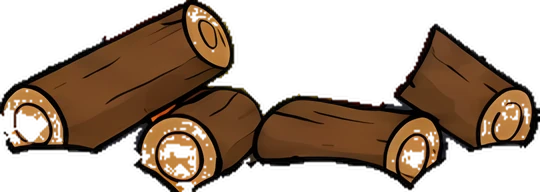
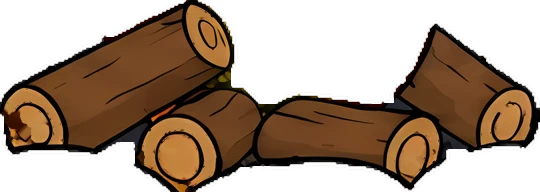
Logs: fill the see-through spots in the log ends
The original cut-out had knocked holes in the light wood of the log
ends; they're filled with the surrounding wood colour.

Claude-Session: https://claude.ai/code/session_01LEzX9WUx8sWcSwwRyLeaEz

diff --git a/docs/HANDOFF.md b/docs/HANDOFF.md
@@ -61,7 +61,7 @@ Updated Sep 28 2026 (beta audit merged). Read this whole file before changing an
 | 36 | Birds in the sky; skunk dropped | Built on `wip/pending-approval`: every 3–8 minutes by day a flock of 2–5 classic black "m" birds flaps (and now and then glides) across the sky; none at night or while storm clouds gather. A `birds` button in the Playground sends a flock. The skunk is dropped. **Approved Sep 29, merged to `main`.** |
 | 37 | Storm at 21:00 UTC; the scene follows each player's own clock | Built on `wip/pending-approval`: the storm moves from 03:00 UTC (8 PM MST) to 21:00 UTC (5 PM ET, 10 PM UK, 2 PM MST), when the US and Europe are both awake. `ROLL_TIME_OF_DAY=75600` in the deploy settings (no contract code change; the keeper reads the time from the contract). The site shows the player's own time and the storm on their clock ("storm in 2:11:46", "storm at 5:00 PM"); sun, moon and stars follow their clock; the forecast clouds gather over the last 3 hours before the storm. Wording is now daily: "Day 3", "3 days survived", "the next storm". Docs and the launch-day timetable moved to the 2 PM MST storm. **Approved Sep 29, merged to `main`.** |
 | 38 | How it works: drop the storm example | Built on `wip/pending-approval`: the "Example: on day 2 most storms are 5 to 30 logs…" line is gone from the storm section (too much info). **Approved Sep 29, merged to `main`.** |
-| 39 | Sharper scene: 2x art + press sign fit | Built on `wip/pending-approval`: every piece of scene art (the painting, grass tufts, tree canopy, water mask, clouds, logs, all the animals, Plank) upscaled 2x with an AI upscaler (Real-ESRGAN anime model); tufts and canopy are cut from the upscaled painting so they line up exactly; clouds lost the old light-blue fringe; art is WebP now (1.3 MB total). The scene draws at up to 2x on big and high-density screens, and a device that can't keep a smooth frame rate at that size drops back to the old size by itself after a few seconds. The PLANK & PAPER sign's words now shrink to fit between its nails. Checked at 2x: day, night, storm, deer, rabbit, squirrel, frog, bear, birds, phone. |
+| 39 | Sharper scene: 2x art + press sign fit | Built on `wip/pending-approval`: every piece of scene art (the painting, grass tufts, tree canopy, water mask, clouds, logs, all the animals, Plank) upscaled 2x with an AI upscaler (Real-ESRGAN anime model); tufts and canopy are cut from the upscaled painting so they line up exactly; clouds lost the old light-blue fringe; holes in the log ends (left from the original cut-out) are filled; art is WebP now (1.3 MB total). The scene draws at up to 2x on big and high-density screens, and a device that can't keep a smooth frame rate at that size drops back to the old size by itself after a few seconds. The PLANK & PAPER sign's words now shrink to fit between its nails. Checked at 2x: day, night, storm, deer, rabbit, squirrel, frog, bear, birds, phone. |
 
 He also asked (answered, no code): "how do we track fake paper?" — there is none. ETH/USDG buyers get
 tickets directly; `ticketsOf[fire][wallet]` and the `TicketsBought` event (flag `paperFromFire`) record
